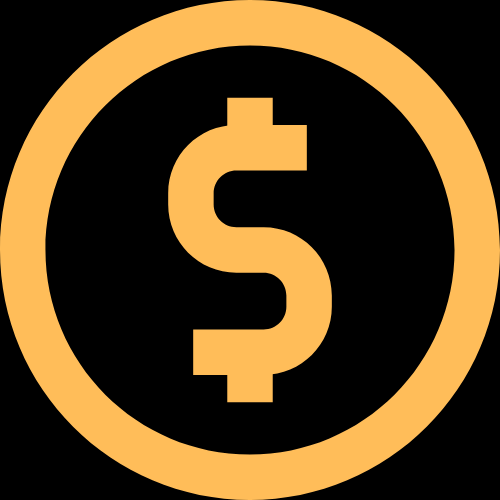
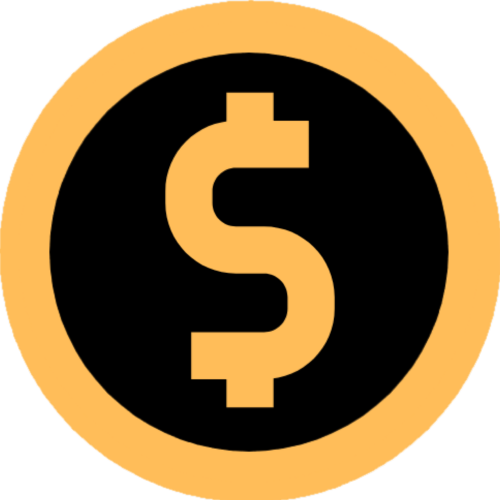
edited images

diff --git a/index.html b/index.html
@@ -11,7 +11,7 @@
     <meta property="og:image"
         content="https://github.com/RafalSolnica/currency-converter/blob/master/images/README_background.png?raw=true">
     <meta property="og:description" content="Kantor walut - mój pierwszy projekt z wykorzystaniem funkcji JavaScript.">
-    <link rel="icon" href="./images/icon3.png">
+    <link rel="icon" href="./images/icon.png">
     <link rel="stylesheet" href="https://cdnjs.cloudflare.com/ajax/libs/normalize/8.0.1/normalize.min.css"
         integrity="sha512-NhSC1YmyruXifcj/KFRWoC561YpHpc5Jtzgvbuzx5VozKpWvQ+4nXhPdFgmx8xqexRcpAglTj9sIBWINXa8x5w=="
         crossorigin="anonymous" referrerpolicy="no-referrer">
